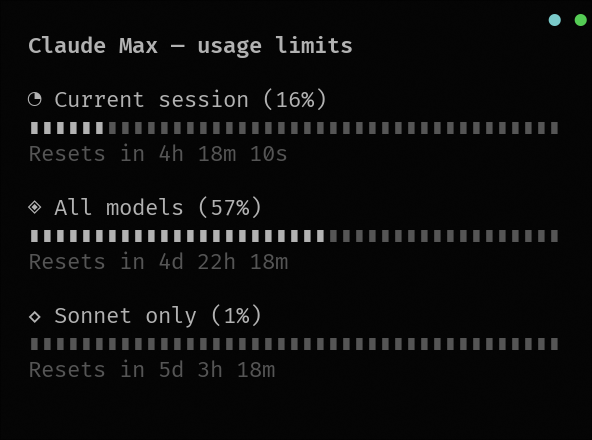
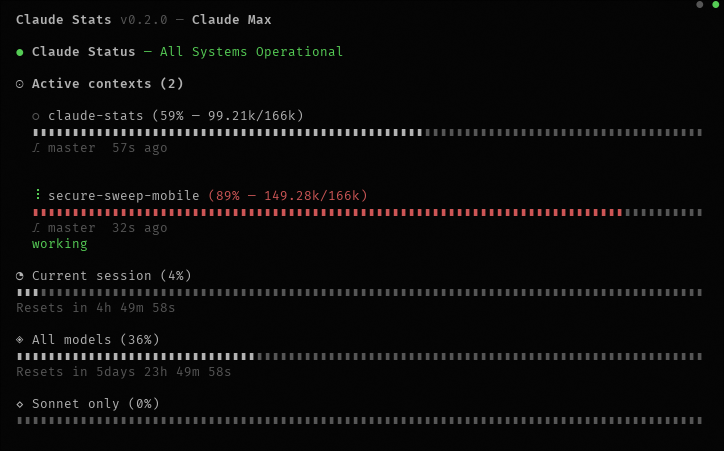
fix: clippy lint violations, updated header and screenshot
Fix field-reassign-with-default clippy errors in test code to pass CI.
Update header to show "Claude Stats v{version} — {plan}" branding.
Clear terminal on startup to prevent stale output bleeding through.
Update README with new features and refreshed screenshot.

diff --git a/src/ui/header.rs b/src/ui/header.rs
@@ -1,4 +1,4 @@
-use crate::ui::common::{padded, Section};
+use crate::ui::common::{padded, Section, DIM};
 use ratatui::{
     layout::{Constraint, Direction, Layout, Rect},
     style::{Modifier, Style},
@@ -6,6 +6,8 @@ use ratatui::{
     widgets::Paragraph,
     Frame,
 };
+
+const VERSION: &str = env!("CARGO_PKG_VERSION");
 
 pub struct HeaderSection<'a> {
     pub plan: &'a Option<crate::credentials::Plan>,
@@ -26,14 +28,21 @@ impl Section for HeaderSection<'_> {
             ])
             .split(area);
 
-        let header_text = match self.plan {
-            Some(name) => format!("{name} — usage limits"),
-            None => "Plan usage limits".to_string(),
-        };
-        let header = Paragraph::new(Line::from(Span::styled(
-            header_text,
-            Style::default().add_modifier(Modifier::BOLD),
-        )));
+        let mut spans = vec![
+            Span::styled(
+                "Claude Stats",
+                Style::default().add_modifier(Modifier::BOLD),
+            ),
+            Span::styled(format!(" v{VERSION}"), Style::default().fg(DIM)),
+        ];
+        if let Some(plan) = self.plan {
+            spans.push(Span::styled(" — ", Style::default().fg(DIM)));
+            spans.push(Span::styled(
+                plan.to_string(),
+                Style::default().add_modifier(Modifier::BOLD),
+            ));
+        }
+        let header = Paragraph::new(Line::from(spans));
         frame.render_widget(header, padded(chunks[1]));
     }
 }

diff --git a/src/app.rs b/src/app.rs
@@ -269,8 +269,10 @@ mod tests {
 
     #[test]
     fn handle_usage_updated_ok() {
-        let mut state = State::default();
-        state.fetching = true;
+        let mut state = State {
+            fetching: true,
+            ..State::default()
+        };
         let shutdown = state.handle(AppEvent::UsageUpdated {
             data: Ok(dummy_usage()),
             elapsed: Duration::from_millis(100),
@@ -285,8 +287,10 @@ mod tests {
 
     #[test]
     fn handle_usage_updated_error() {
-        let mut state = State::default();
-        state.fetching = true;
+        let mut state = State {
+            fetching: true,
+            ..State::default()
+        };
         let shutdown = state.handle(AppEvent::UsageUpdated {
             data: Err(FetchError::Timeout),
             elapsed: Duration::from_millis(100),

diff --git a/README.md b/README.md
@@ -4,13 +4,16 @@
 
 # claude-stats
 
-A TUI dashboard for Claude Code usage limits.
+A TUI dashboard for monitoring Claude Code usage limits and active sessions.
 
 ![claude-stats screenshot](docs/screenshot.png)
 
 ## Features
 
 - Live usage gauges for session, weekly (all models), Opus, and Sonnet limits
+- Active session monitoring with context window utilization
+- Subagent tracking with model, token count, and state
+- Claude API status and incident display
 - Auto-refreshes every 5 seconds
 - Displays your plan type (Pro, Max, Team, Enterprise)
 - Countdown timers showing when limits reset
